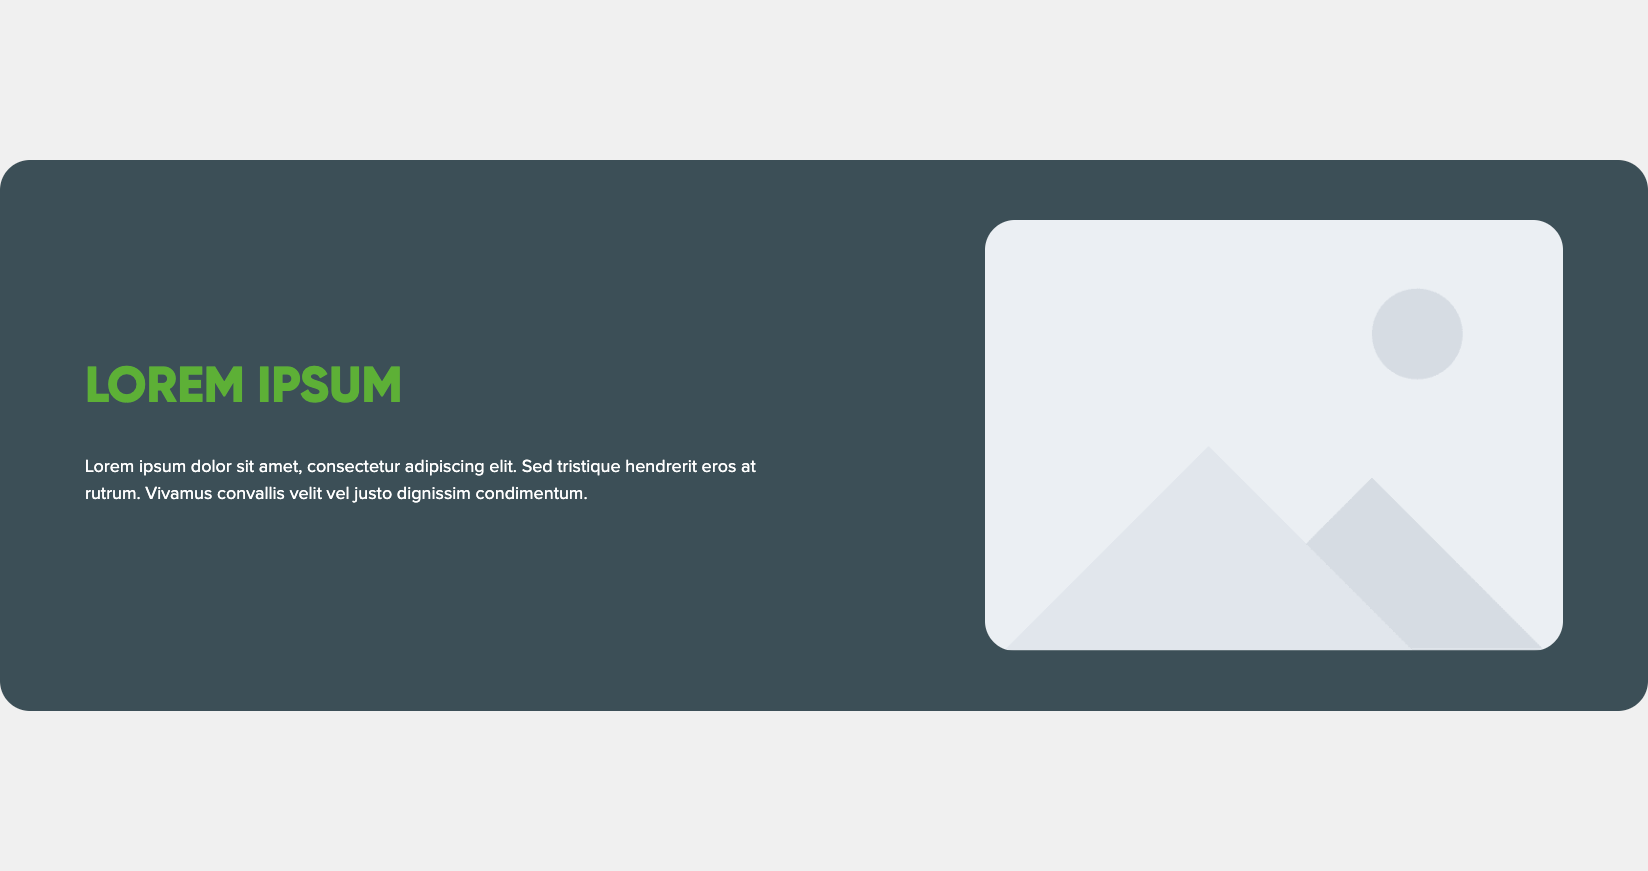
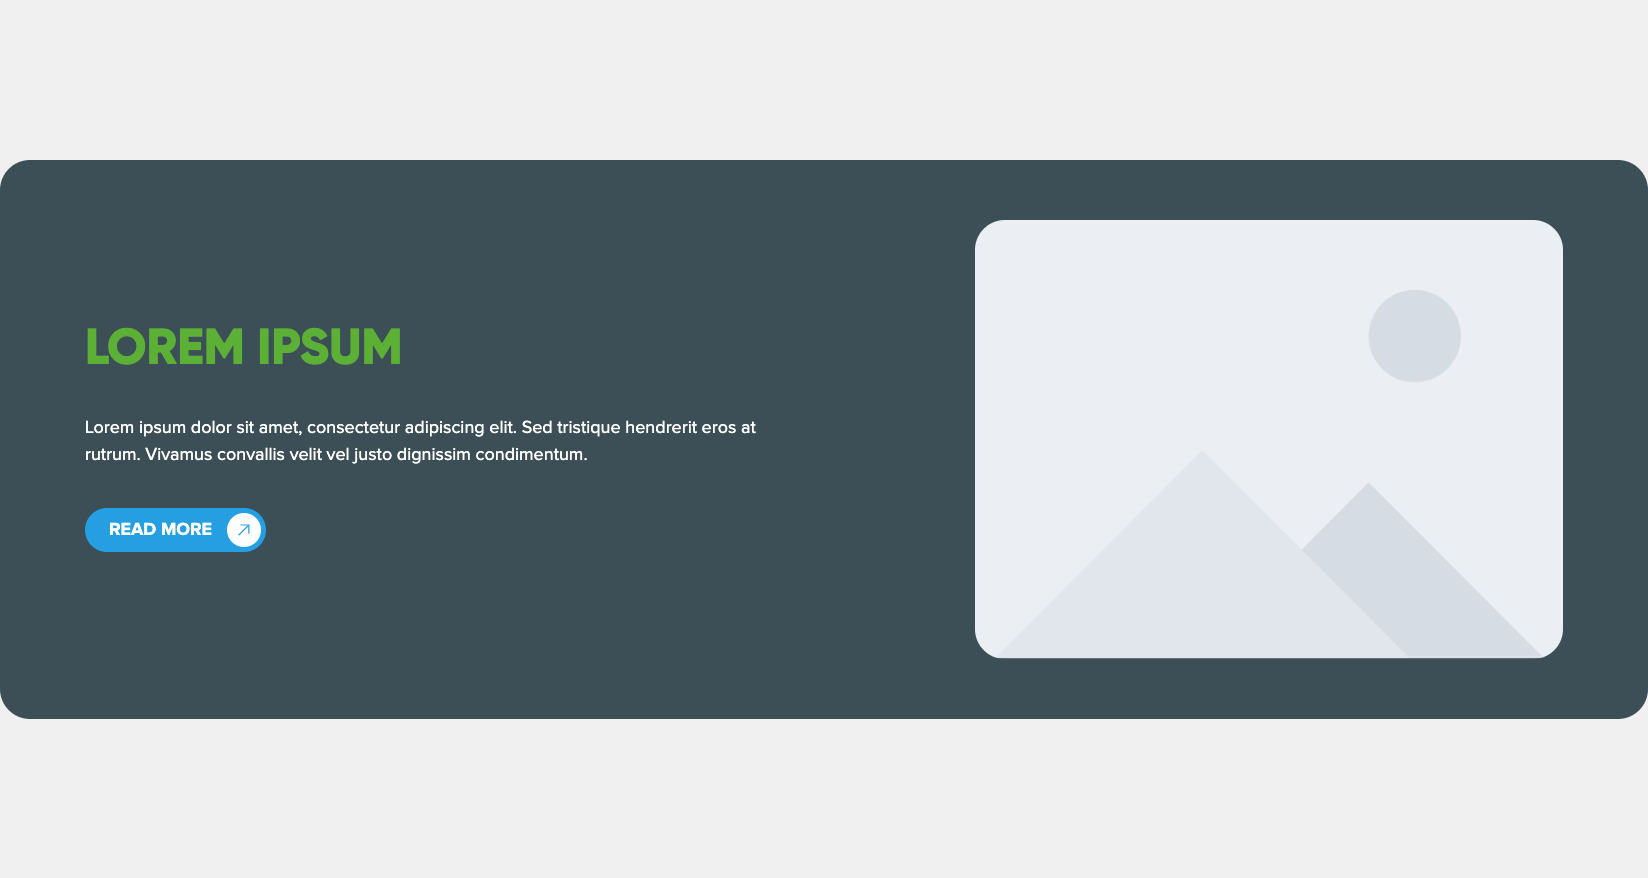
Amend text with media sections to better match global spacing and to add a button module

diff --git a/evoke-creative/sections/text-media-box.html b/evoke-creative/sections/text-media-box.html
@@ -6,7 +6,7 @@
   description: "Full size gradient background color section separated in two columns. Left column has text and right column has an image."
 -->
 {% dnd_section
-  class="rounded-theme rounded-images",
+  class="rounded-theme rounded-images prose-spacing",
   background_color={{ context.background_color or theme.global_colors.primary.color }},
   padding={
     "default": {
@@ -16,28 +16,57 @@
       "left": 0
     },
     "mobile": {
-      "top": "30px",
+      "top": "32px",
       "right": 0,
-      "bottom": "30px",
+      "bottom": "32px",
       "left": 0
     }
   }
   vertical_alignment="MIDDLE"
 %}
   {% dnd_column
-    offset=0,
-    width=6
+  offset=0,
+  width=6
   %}
     {% dnd_row %}
       {% dnd_module
         path="@hubspot/rich_text",
-        html={{
-          context.content or 
-          "<div class='space-y-8 | lg:space-y-10'>
-            <h3 class='text-secondary'>Lorem ipsum</h3>
-            <p class='text-white'>Lorem ipsum dolor sit amet, consectetur adipiscing elit. Sed tristique hendrerit eros at rutrum. Vivamus convallis velit vel justo dignissim condimentum.</p>
-          </div>" 
-        }}
+        html={{ context.content or "<h3 class='text-secondary'>Lorem ipsum</h3>" }}
+      %}
+      {% end_dnd_module %}
+    {% end_dnd_row %}
+
+    {% dnd_row %}
+      {% dnd_module
+        path="@hubspot/rich_text",
+        html={{ context.content or "<p class='text-white'>Lorem ipsum dolor sit amet, consectetur adipiscing elit. Sed tristique hendrerit eros at rutrum. Vivamus convallis velit vel justo dignissim condimentum.</p>" }},
+        margin={
+          "default": {
+            "top": "40px",
+          },
+          "mobile": {
+            "top": "32px",
+          }
+        }
+      %}
+      {% end_dnd_module %}
+    {% end_dnd_row %}
+
+    {% dnd_row %}
+      {% dnd_module
+        path="/evoke-creative/modules/button",
+        styles={
+          "spacing": {
+            "spacing": {
+              "margin": {
+                "top": {
+                  "units": "px",
+                  "value": 40
+                }
+              }
+            }
+          }
+        }
       %}
       {% end_dnd_module %}
     {% end_dnd_row %}

diff --git a/evoke-creative/sections/text-media.html b/evoke-creative/sections/text-media.html
@@ -6,7 +6,7 @@
   description: "Section separated in two columns. Left column has text and right column has an image."
 -->
 {% dnd_section
-  class="rounded-images",
+  class="rounded-images prose-spacing",
   vertical_alignment="MIDDLE"
 %}
   {% dnd_column
@@ -16,13 +16,42 @@
     {% dnd_row %}
       {% dnd_module
         path="@hubspot/rich_text",
-        html={{ 
-          context.content or 
-          "<div class='space-y-8 | lg:space-y-10'>
-            <h3>Lorem ipsum</h3>
-            <p>Lorem ipsum dolor sit amet, consectetur adipiscing elit. Sed tristique hendrerit eros at rutrum. Vivamus convallis velit vel justo dignissim condimentum.</p>
-          </div>" 
-        }}
+        html={{ context.content or "<h3>Lorem ipsum</h3>" }}
+      %}
+      {% end_dnd_module %}
+    {% end_dnd_row %}
+
+    {% dnd_row %}
+      {% dnd_module
+        path="@hubspot/rich_text",
+        html={{ context.content or "<p>Lorem ipsum dolor sit amet, consectetur adipiscing elit. Sed tristique hendrerit eros at rutrum. Vivamus convallis velit vel justo dignissim condimentum.</p>" }},
+        margin={
+          "default": {
+            "top": "40px",
+          },
+          "mobile": {
+            "top": "32px",
+          }
+        }
+      %}
+      {% end_dnd_module %}
+    {% end_dnd_row %}
+
+    {% dnd_row %}
+      {% dnd_module
+        path="/evoke-creative/modules/button",
+        styles={
+          "spacing": {
+            "spacing": {
+              "margin": {
+                "top": {
+                  "units": "px",
+                  "value": 40
+                }
+              }
+            }
+          }
+        }
       %}
       {% end_dnd_module %}
     {% end_dnd_row %}

diff --git a/evoke-creative/css/tailwind/input.css b/evoke-creative/css/tailwind/input.css
@@ -56,4 +56,8 @@
     .border-edge.edge-secondary::after {
         @apply bg-secondary;
     }
+
+    .prose-spacing .button {
+        @apply max-lg:!mt-8;
+    }
 }
